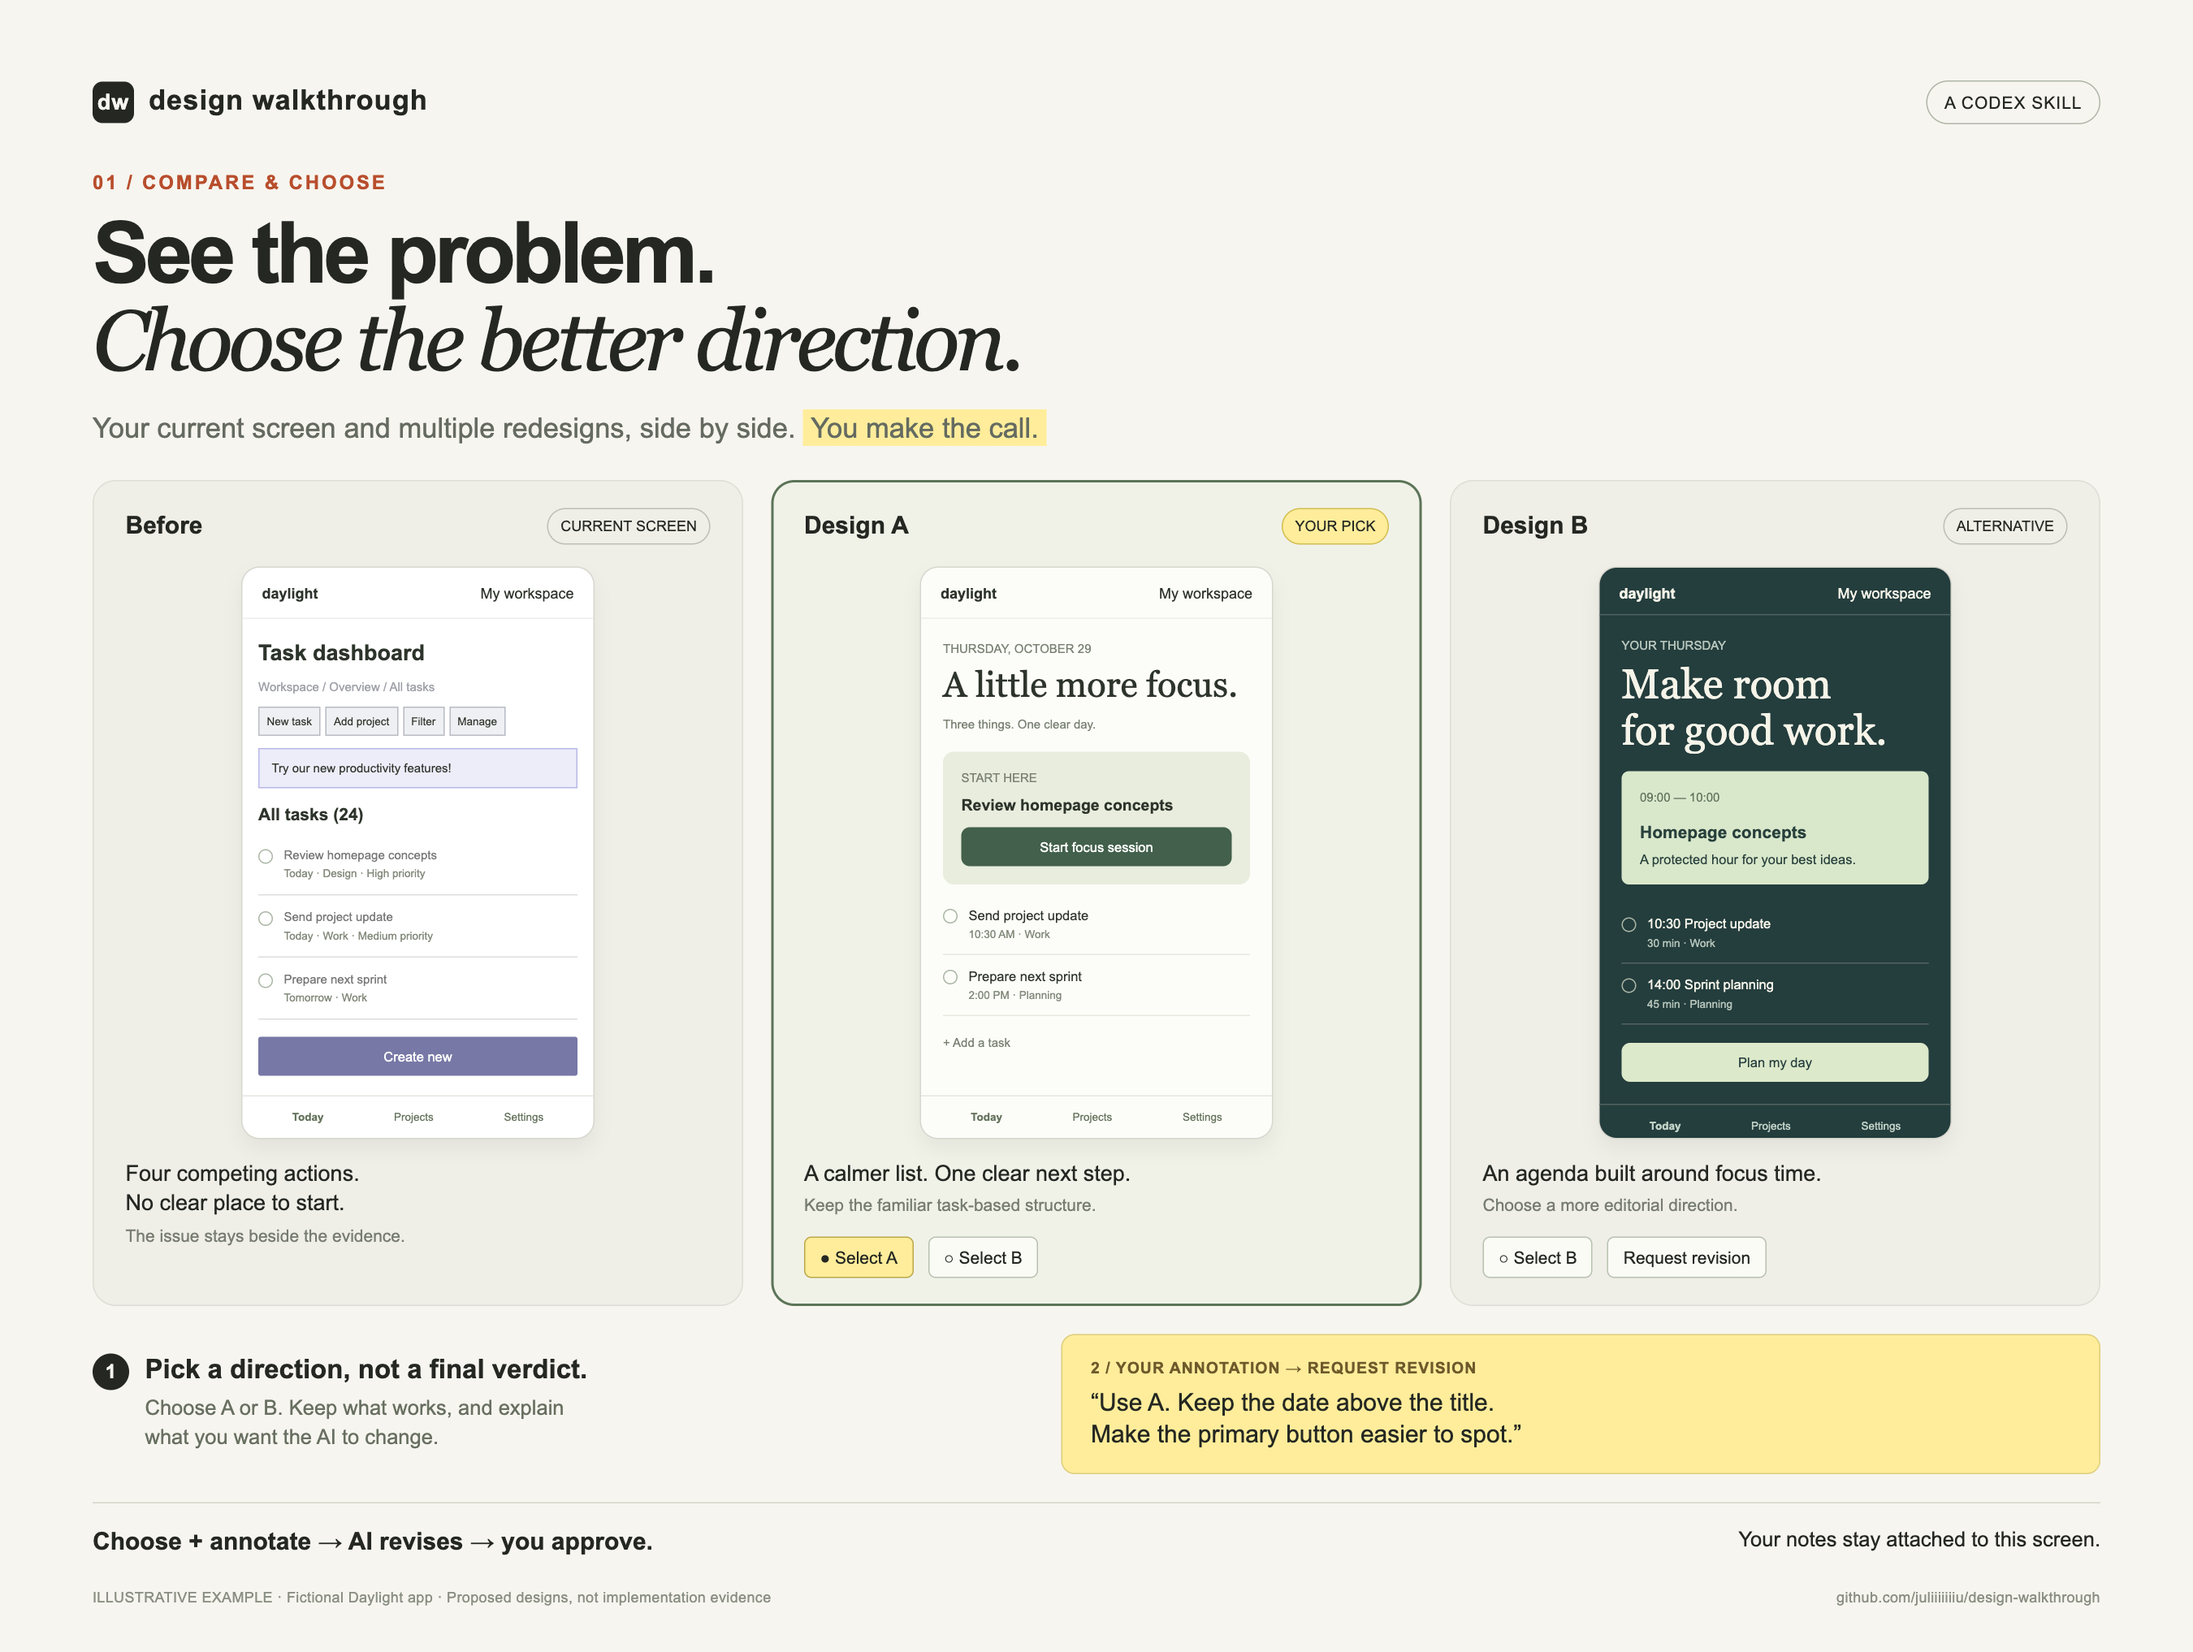
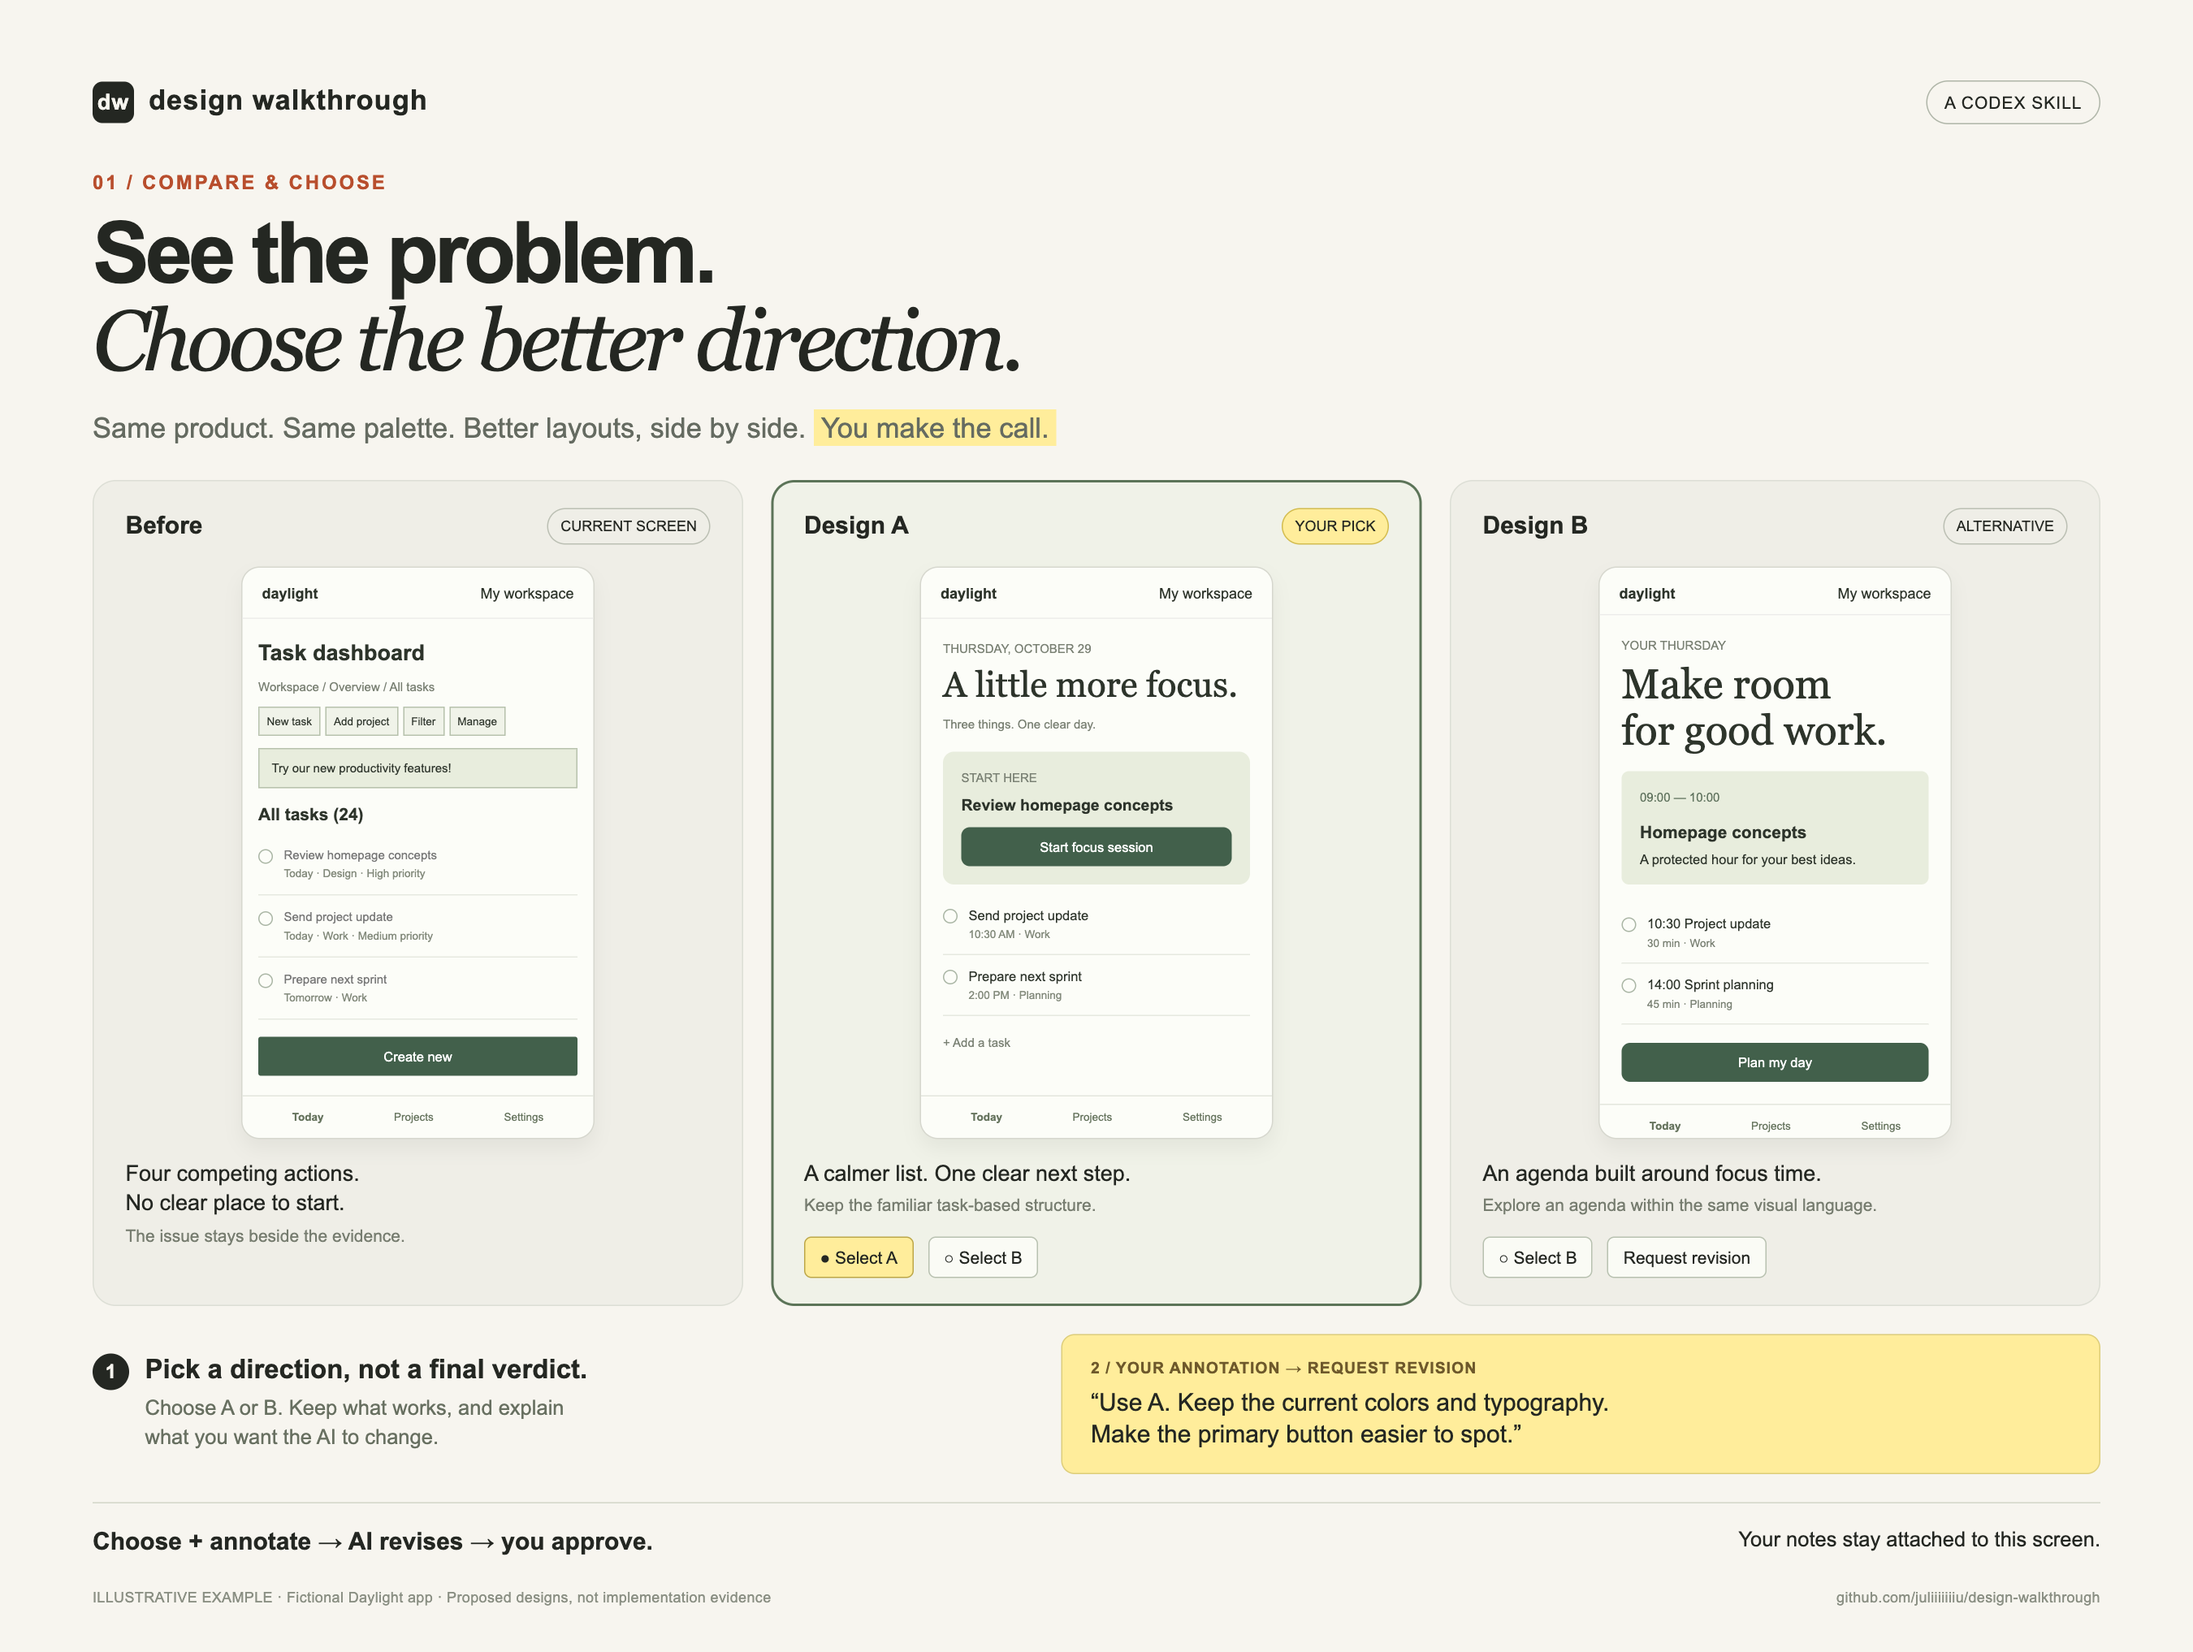
docs: refine review illustrations and feedback submission
- Preserve a consistent product palette across design alternatives
- Expand the review to eight distinct screens
- Add overall annotations and a prominent Submit feedback action

diff --git a/README.md b/README.md
@@ -10,13 +10,13 @@ Design Walkthrough gives that work a repeatable process, with screenshots, edita
 
 ## See it in one review pass
 
-Compare the current screen with multiple design options. Choose a direction, annotate what should change, and return the workbook to your AI.
+Compare the current screen with multiple design options that preserve the same product palette. Choose a better layout, annotate what should change, and return the review to your AI.
 
 ![Current screen beside Design A and Design B, with a highlighted selection and a revision note.](docs/media/compare-landscape.png)
 
-Review all pages together. Approve some, request revisions on others, and keep each decision beside its screen.
+Review all pages together. Approve some, request revisions on others, and keep each decision beside its screen. The optional interactive review surface shown below collects page-level annotations and overall feedback, with one **Submit feedback** action at the bottom.
 
-![A three-screen review workbook showing Design A selected, Design B selected, and one row returned for revision with an annotation.](docs/media/review-landscape.png)
+![An eight-screen review with five approvals, three revision requests, editable annotations, overall feedback, and a Submit feedback button.](docs/media/review-landscape.png)
 
 *Illustrative examples using a fictional Daylight app. These images explain the workflow; they are not screenshots of an implemented product or a downloadable workbook.*
 
